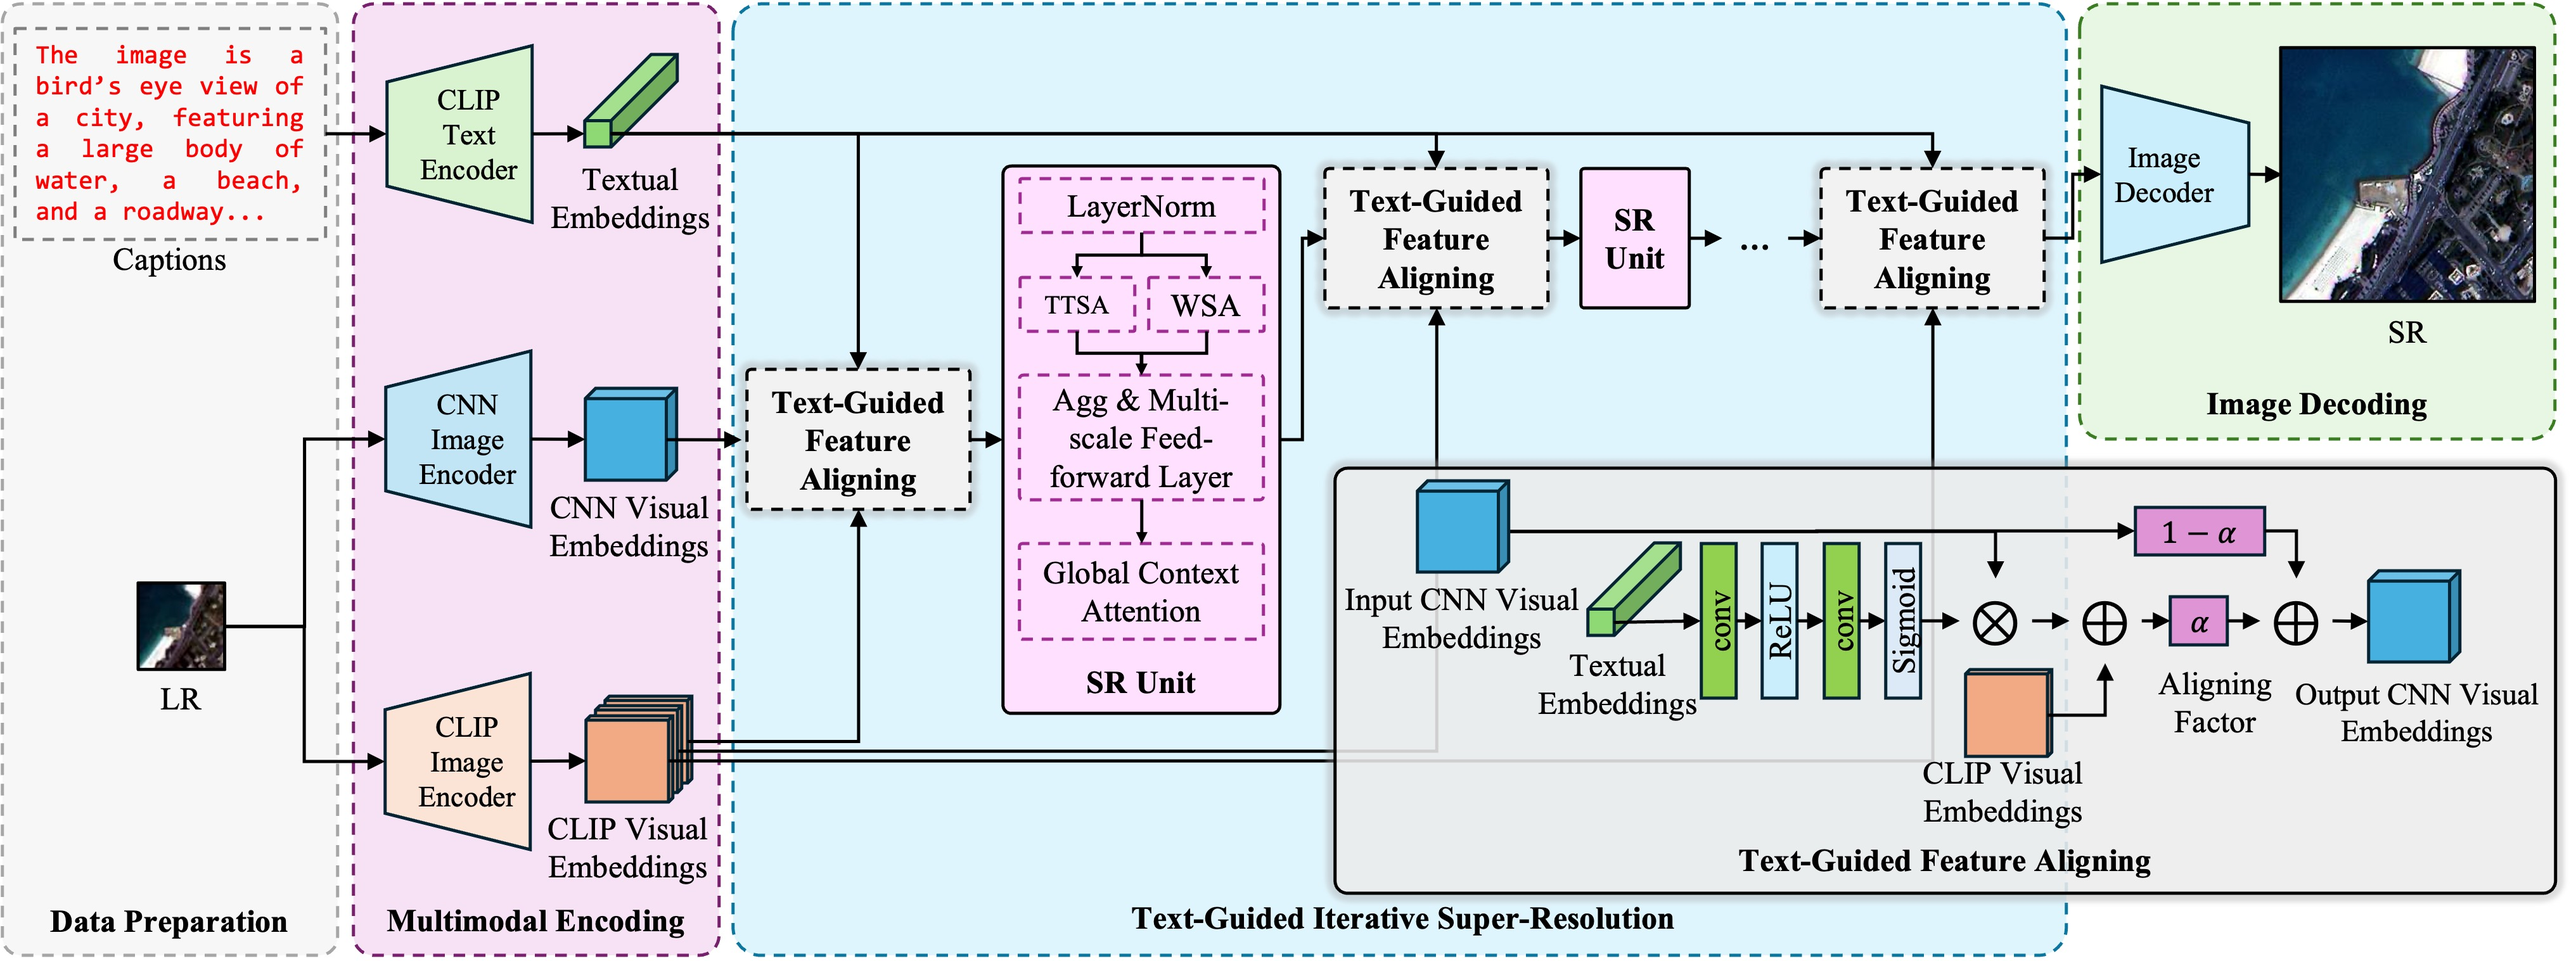
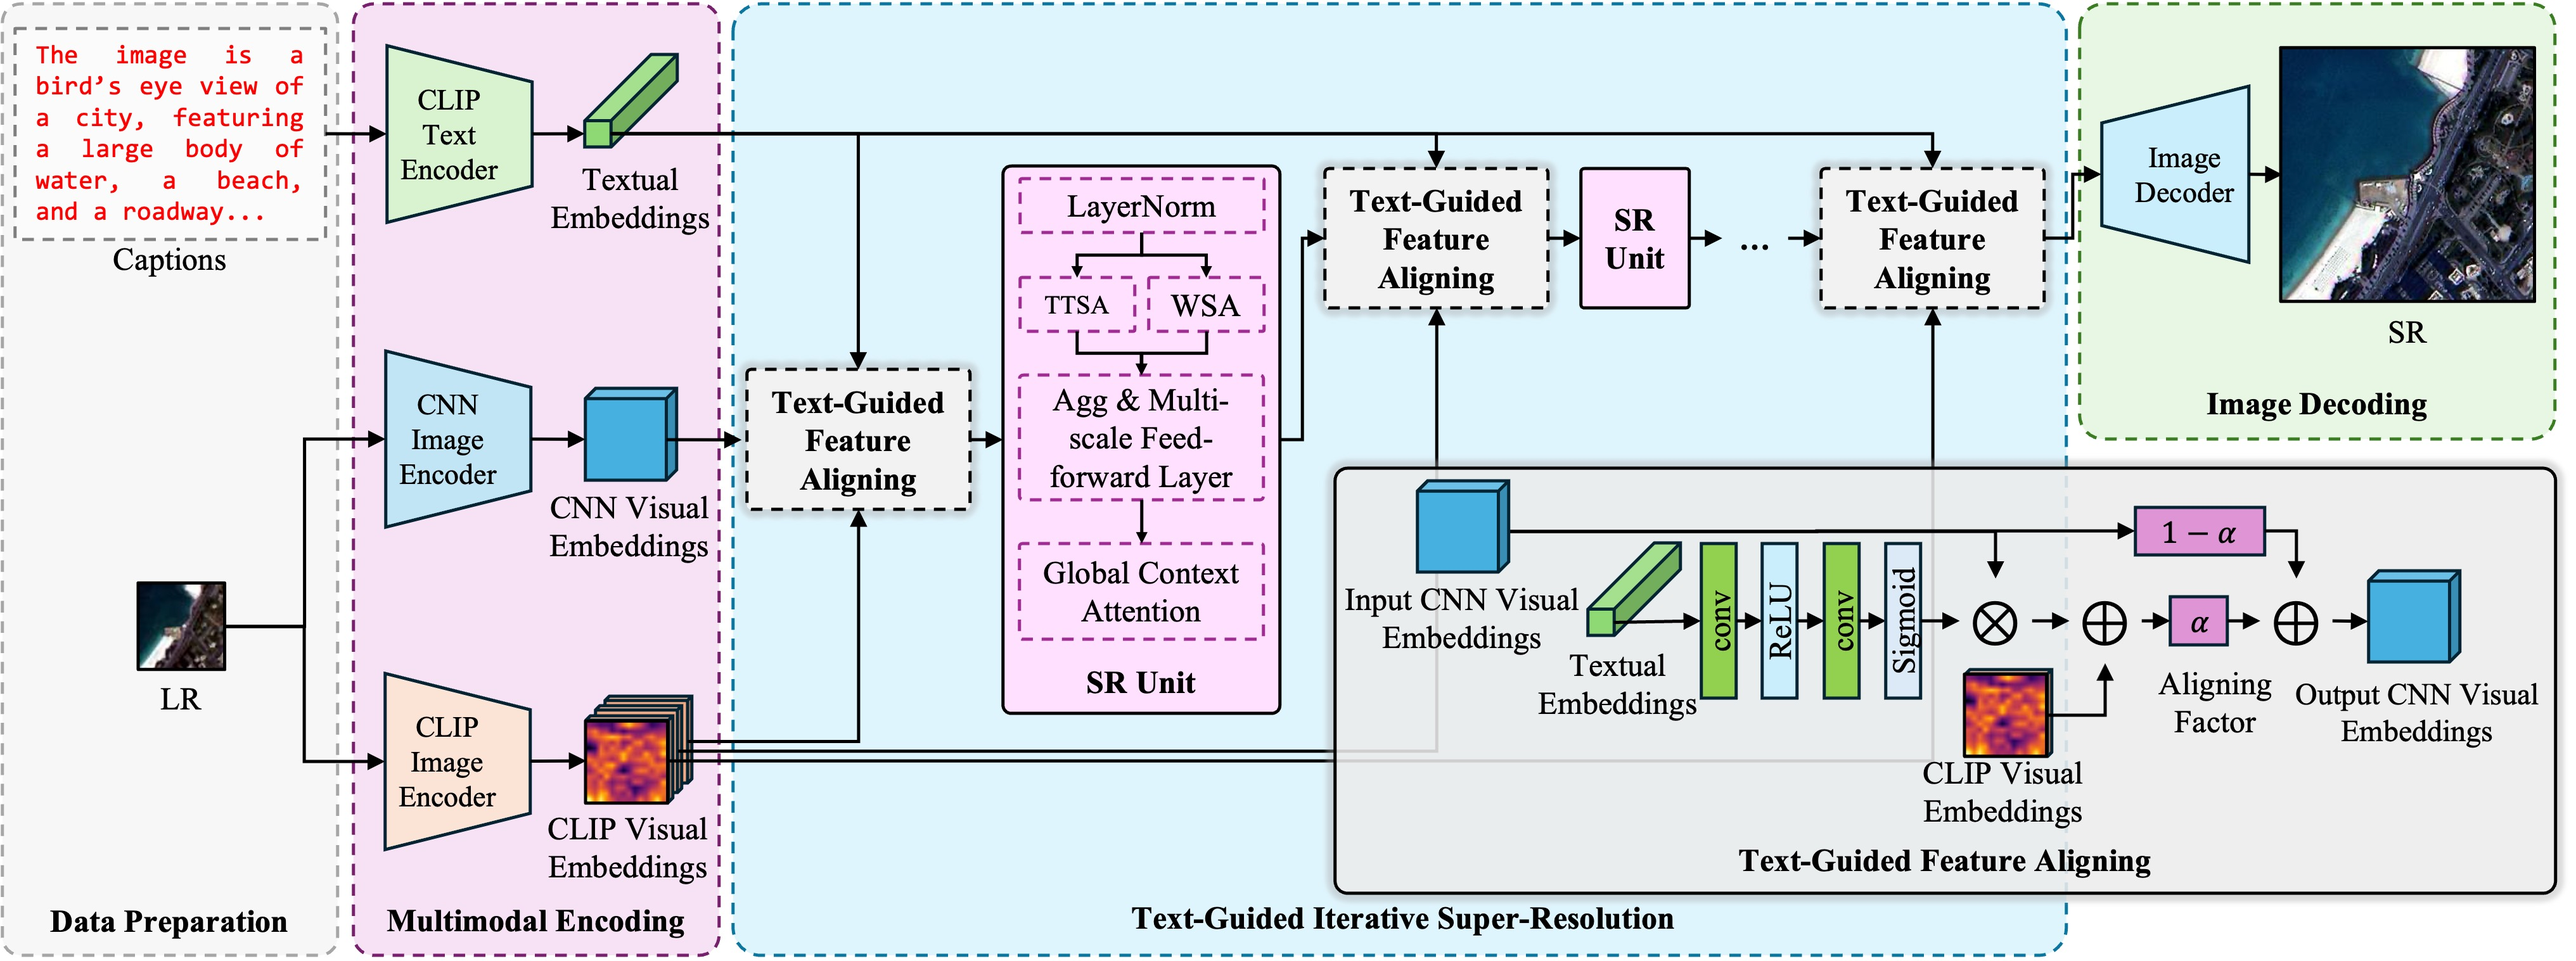
Update Text-RSSR architecture image

diff --git a/_pages/about.md b/_pages/about.md
@@ -11,4 +11,4 @@ Hello! I'm a fourth-year student with the Honors College in Northwestern Polytec
 
 I was born and raised in Zhongshan, Guangdong. My hobbies are music, coffee, rhythm game and snooker.
 
-This website is maintained on an occasional basis. Last update: Nov. 6th, 2025.
+This website is maintained on an occasional basis. Last update: Dec. 17th, 2025.
